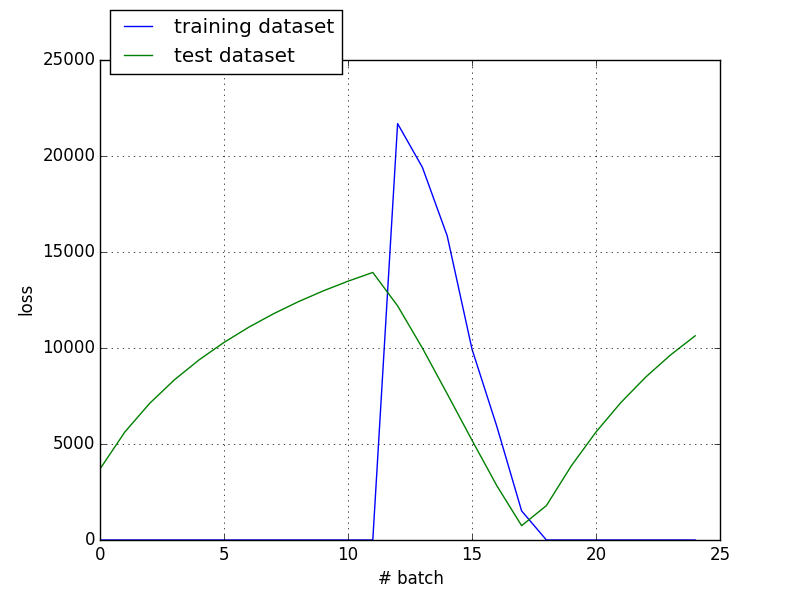
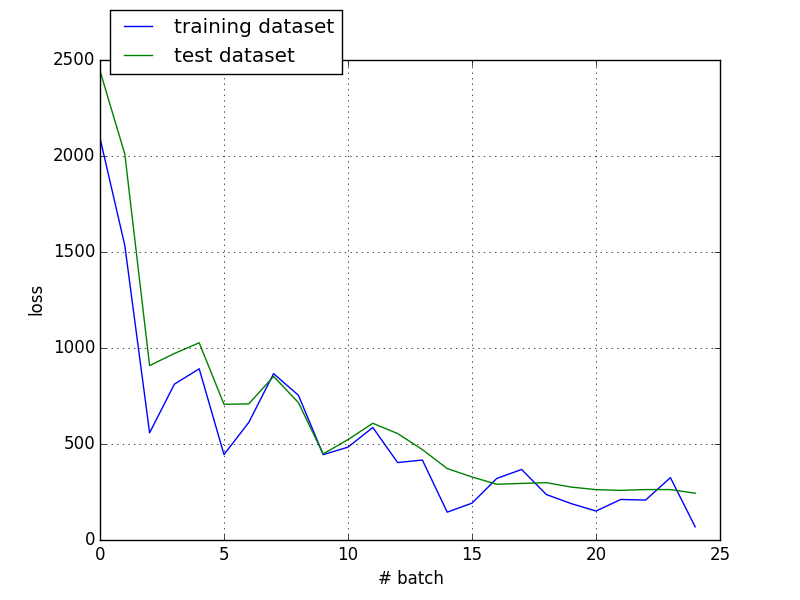
shuffeled the images in the training and test dataset to avoid overfitting whilst training

diff --git a/classifySadOrHappyRandomResults.py b/classifySadOrHappyRandomResults.py
@@ -54,11 +54,15 @@ def createDataSets(smilePath, nonSmilePath, dataSetSize, testingSplit):
         for name in files:
             if name.endswith(".jpg") and (k<(dataSetSize/2) or dataSetSize == -1):
                 if random.randint(1, 100) > testingSplit:
-                    trainingSet.append(transformImage(os.path.join(root, name)))
-                    trainingLabels.append(np.array([0, 1], np.int32))
+                    # insert to a random position to avoid overfitting
+                    insertPosition = random.randint(0, len(trainingLabels))
+                    trainingSet.insert(insertPosition, transformImage(os.path.join(root, name)))
+                    trainingLabels.insert(insertPosition, np.array([0, 1], np.int32))
                 else:
-                    testingSet.append(transformImage(os.path.join(root, name)))
-                    testingLabels.append(np.array([0, 1], np.int32))
+                    # insert to a random position to avoid overfitting
+                    insertPosition = random.randint(0, len(trainingLabels))
+                    testingSet.insert(insertPosition, transformImage(os.path.join(root, name)))
+                    testingLabels.insert(insertPosition, np.array([0, 1], np.int32))
                 k=k+1
 
     return trainingSet,trainingLabels,testingSet,testingLabels
@@ -155,8 +159,8 @@ def plotResults(train_a, test_a, train_c, test_c):
 
 
 def main(argv=None):
-    dataSetSize=750 # use -1 for all images
-    testingSplit = 20
+    dataSetSize = 750 # use -1 for all images
+    testingSplit = 20 # in % of total data-set size
     batchSize = 25
     trainingSet, trainingLabels, testingSet, testingLabels = createDataSets("AMFED/AMFED/happiness/","AMFED/AMFED/nonHapiness/",dataSetSize,testingSplit)
     #batchSize = len(testingSet) #to train in batches of the testing set size
